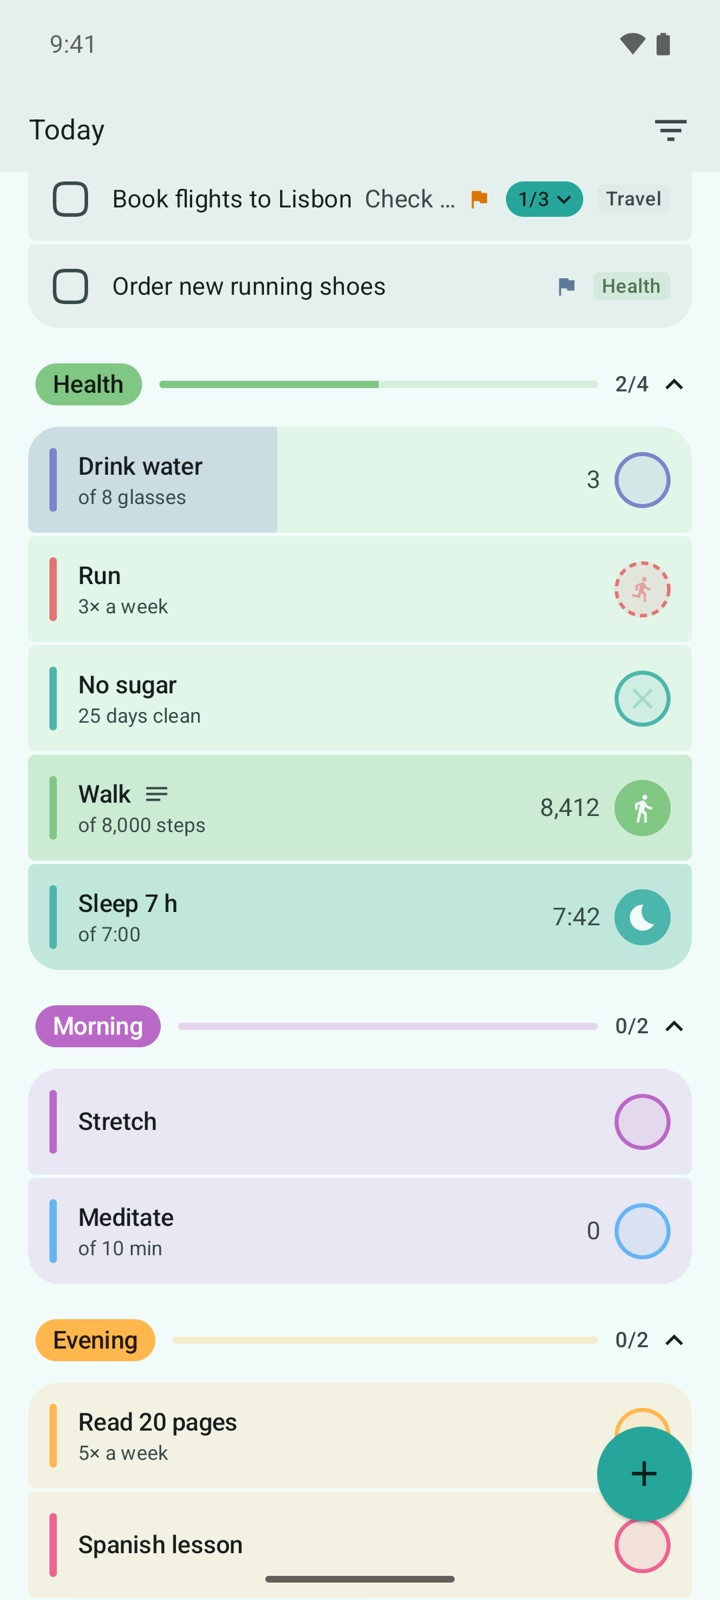
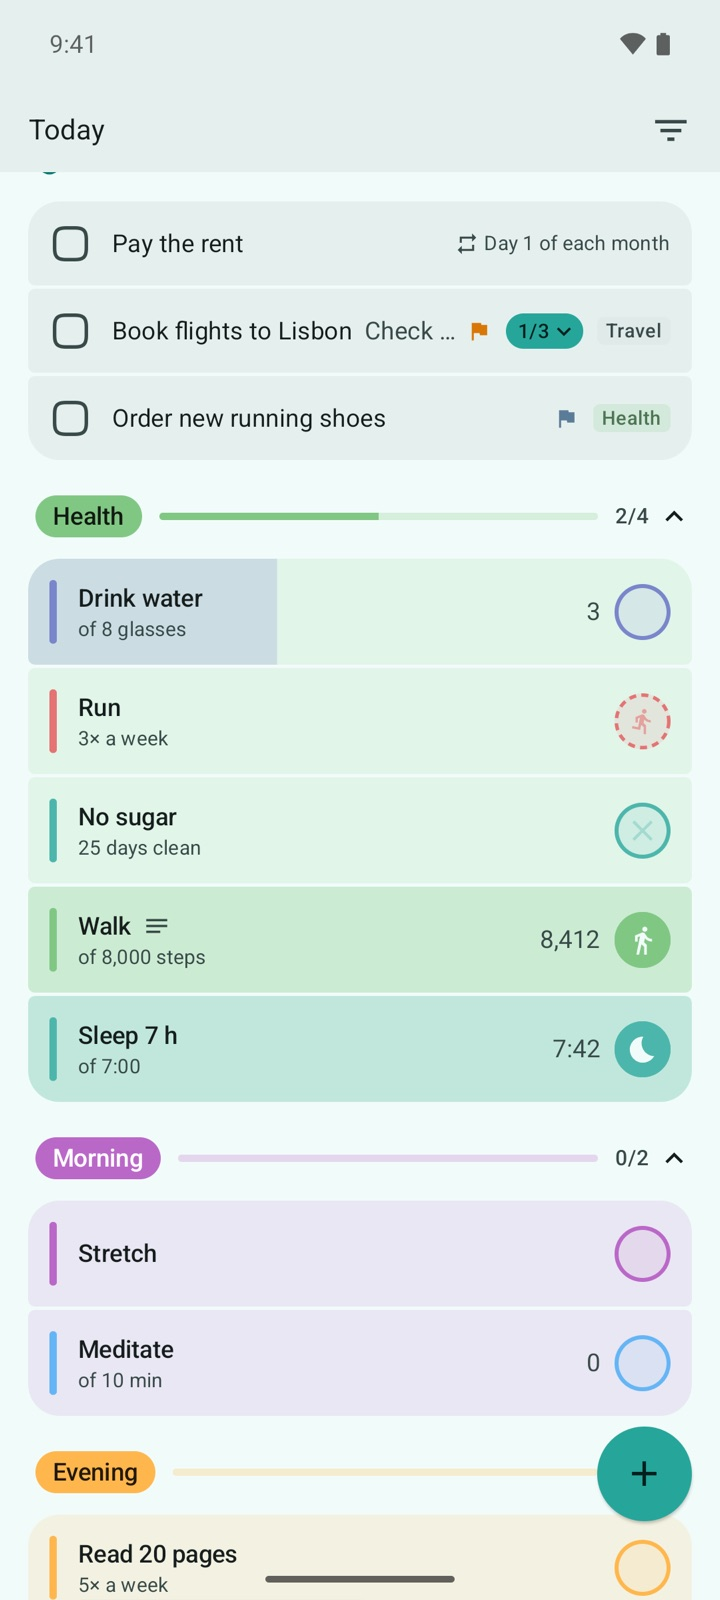
feat: retaken Health screen in the tour

diff --git a/src/App.tsx b/src/App.tsx
@@ -10,7 +10,7 @@ const TOUR: TourStep[] = [
     text: "Habits, to-dos and your calendar in one list. Tap or swipe to tick." },
   { shot: "health", eyebrow: "Health Connect", title: "Fitbit ticks them for you",
     text: "Steps, sleep, water and workouts come in from Health Connect and tick the habits they belong to.",
-    zoom: { scale: 1.6, x: 0.72, y: 0.62, label: "8,412 steps ticked Walk; 7:42 of sleep ticked Sleep 7 h" } },
+    zoom: { scale: 1.6, x: 0.72, y: 0.53, label: "8,412 steps ticked Walk; 7:42 of sleep ticked Sleep 7 h" } },
   { shot: "calendar", eyebrow: "Calendar", title: "Your calendar, beside your habits",
     text: "Month, day and agenda views. Events and to-dos in one agenda, and any event can become a to-do." },
   { shot: "todos", eyebrow: "To-dos", title: "To-dos that nag just enough",
